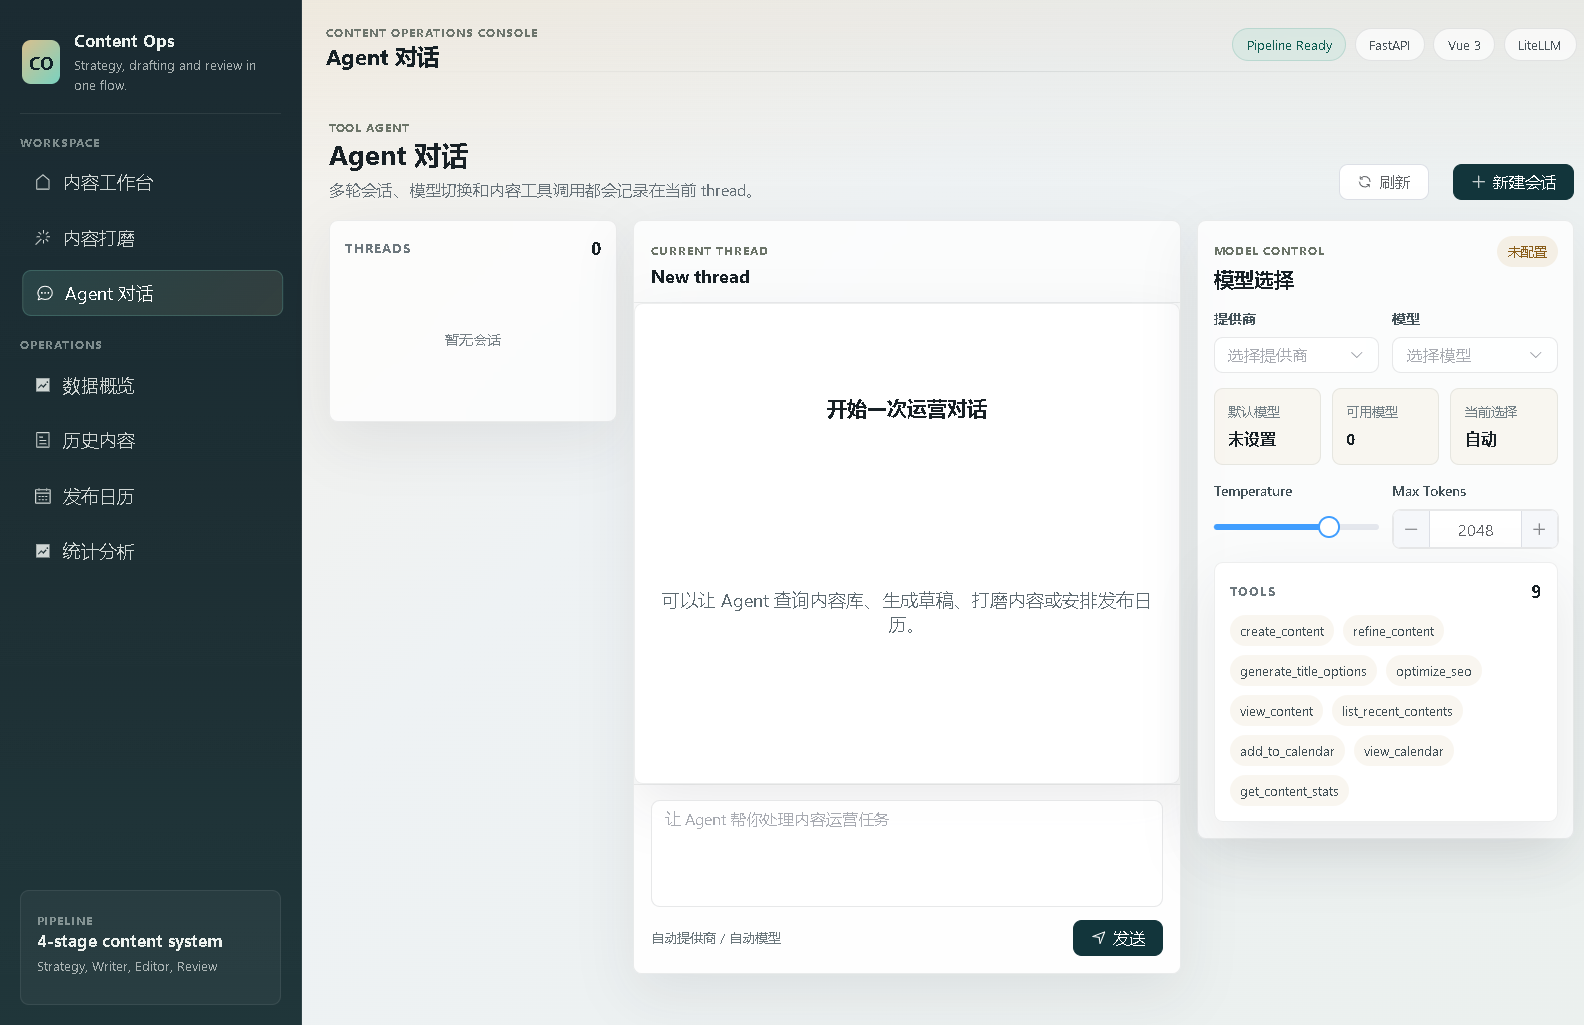
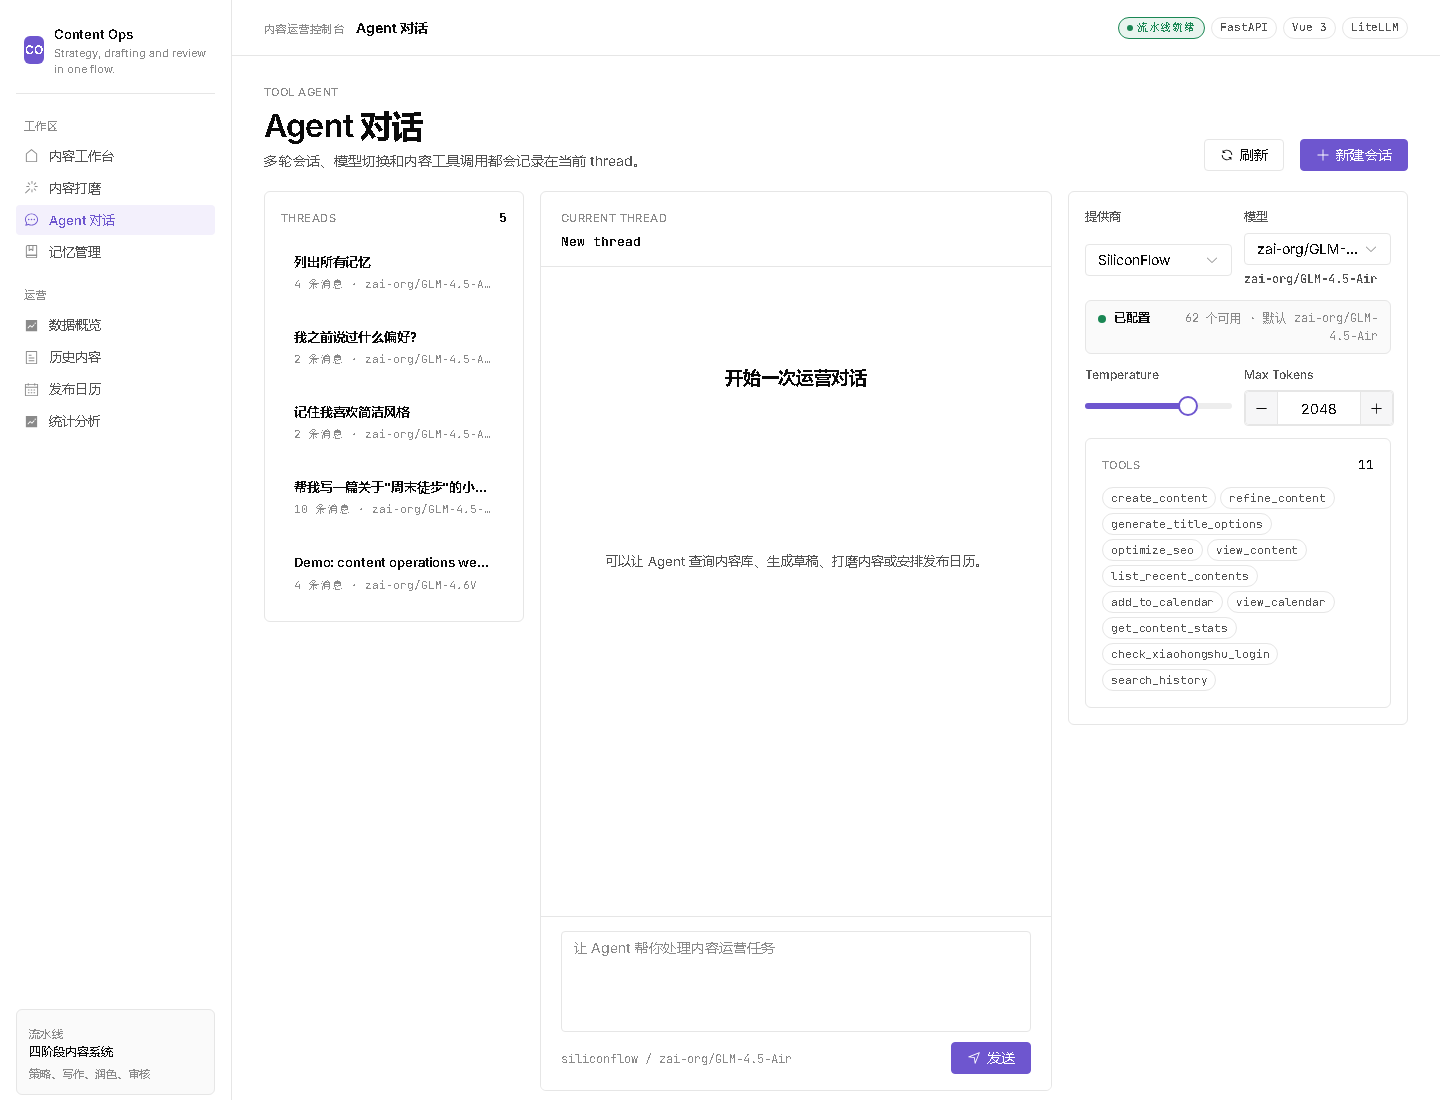
Update README screenshots

diff --git a/README.md b/README.md
@@ -73,6 +73,8 @@ Core implementation areas:
 
 ### Publishing Calendar
 
+![Publishing Calendar](docs/screenshots/calendar.png)
+
 The Calendar page is an operational scheduling board: it summarizes the next 60 days, highlights today's planned posts, groups events by platform, and shows the selected day's agenda alongside the upcoming queue.
 
 ## Runtime Modes

diff --git a/README.zh-CN.md b/README.zh-CN.md
@@ -73,6 +73,8 @@ graph LR
 
 ### 发布日历
 
+![发布日历](docs/screenshots/calendar.png)
+
 发布日历现在是一个运营排期看板：汇总未来 60 天计划，突出今日发布，按平台显示排期，并在右侧展示选中日期议程和近期队列。
 
 ## 运行模式
